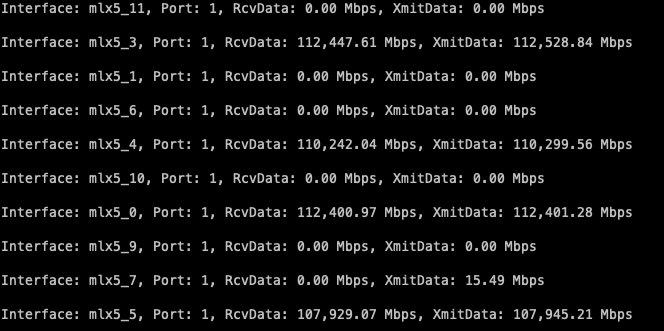
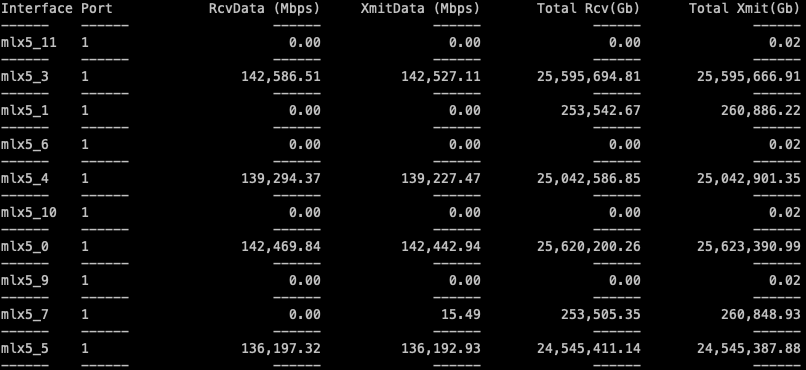
feat:add total Rcv and Xmit , reorganized output format.

Changed region(s): [[0.0, 0.0, 0.994, 0.997]]

diff --git a/ib_monitor.cpp b/ib_monitor.cpp
@@ -23,6 +23,8 @@ struct IBInterface {
     std::unordered_map<std::string, PortCounters> counters; 
 };
 
+int interval = 2;
+
 std::vector<IBInterface> findIBInterfaces() {
     std::vector<IBInterface> interfaces;
     std::string path = "/sys/class/infiniband/";
@@ -111,17 +113,36 @@ void printPortCounters(IBInterface& iface, const std::string& port) {
     counters.portXmitDataPrev = portXmitData;
 
     // convert to Mbps
-    double rcvMbps = static_cast<double>(rcvDataDelta) * 8 * 4 / 2 / 1e6;
-    double xmitMbps = static_cast<double>(xmitDataDelta) * 8 * 4 / 2 / 1e6;
+    double rcvMbps = static_cast<double>(rcvDataDelta) * 8 * 4 / interval / 1e6;
+    double xmitMbps = static_cast<double>(xmitDataDelta) * 8 * 4 / interval / 1e6;
+    double portRcvTotal = static_cast<double>(portRcvData) * 8 * 4 / 1e9;
+    double portXmitTotal = static_cast<double>(portXmitData) * 8 * 4 / 1e9;
 
     // setlocale
     std::cout.imbue(std::locale("")); 
-
     std::cout << std::fixed << std::setprecision(2);
-    std::cout << "Interface: " << iface.name << ", Port: " << port
-              << ", RcvData: " << rcvMbps << " Mbps"
-              << ", XmitData: " << xmitMbps << " Mbps \n"
-              << std::endl;
+
+    // std::cout << "Interface: " << iface.name << ", Port: " << port
+    //           << ", RcvData: " << rcvMbps << " Mbps"
+    //           << ", XmitData: " << xmitMbps << " Mbps \n"
+    //           << std::endl;
+
+    //new style
+    std::cout << std::setw(10) << std::left << iface.name;
+    std::cout << std::setw(10) << std::left << port;
+    std::cout << std::setw(20) << std::right << rcvMbps;
+    std::cout << std::setw(20) << std::right << xmitMbps;
+    std::cout << std::setw(20) << std::right << portRcvTotal;
+    std::cout << std::setw(20) << std::right << portXmitTotal;
+    std::cout << std::endl;
+
+    std::cout << std::setw(10) << std::left << "------";
+    std::cout << std::setw(10) << std::left << "------";
+    std::cout << std::setw(20) << std::right << "------";
+    std::cout << std::setw(20) << std::right << "------";
+    std::cout << std::setw(20) << std::right << "------";
+    std::cout << std::setw(20) << std::right << "------";
+    std::cout << std::endl;
 
     // reset locale
     std::cout.imbue(std::locale::classic());
@@ -138,12 +159,29 @@ int main() {
     while (true) {
         std::cout << "\033[2J\033[H"; // clear screen
 
+        //new style
+        std::cout << std::setw(10) << std::left << "Interface";
+        std::cout << std::setw(10) << std::left << "Port";
+        std::cout << std::setw(20) << std::right << "RcvData (Mbps)";
+        std::cout << std::setw(20) << std::right << "XmitData (Mbps)";
+        std::cout << std::setw(20) << std::right << "Total Rcv(Gb)";
+        std::cout << std::setw(20) << std::right << "Total Xmit(Gb)";
+        std::cout << std::endl;
+
+        std::cout << std::setw(10) << std::left << "------";
+        std::cout << std::setw(10) << std::left << "------";
+        std::cout << std::setw(20) << std::right << "------";
+        std::cout << std::setw(20) << std::right << "------";
+        std::cout << std::setw(20) << std::right << "------";
+        std::cout << std::setw(20) << std::right << "------";
+        std::cout << std::endl;
+
         for (auto& iface : interfaces) {
             for (const auto& port : iface.ports) {
                 printPortCounters(iface, port);
             }
         }
-        std::this_thread::sleep_for(std::chrono::seconds(2)); 
+        std::this_thread::sleep_for(std::chrono::seconds(interval)); 
     }
 
     return 0;
